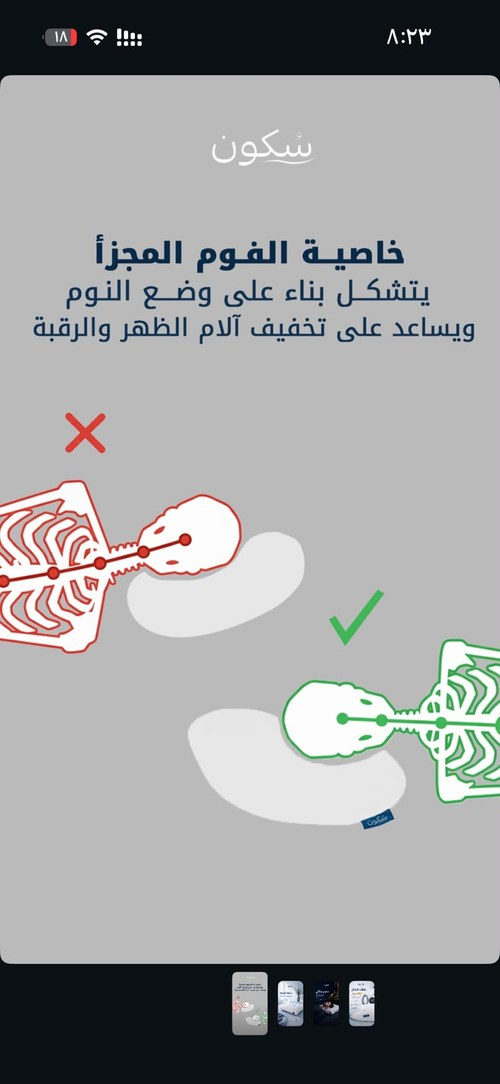
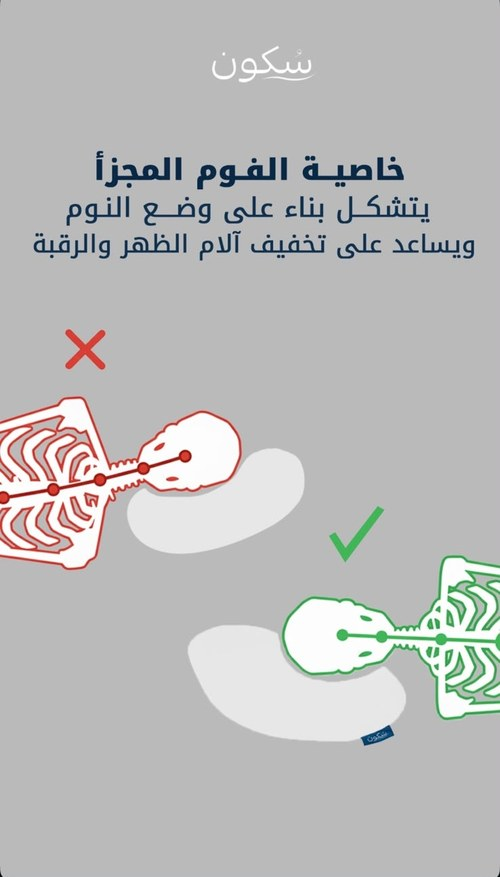
Replace posture image with client's updated photo + cache buster v9.3

diff --git a/index.html b/index.html
@@ -255,8 +255,8 @@
             <div class="posture-content">
                 <div class="posture-image-col">
                     <picture>
-                        <source srcset="assets/images/webp/posture-comparison.webp" type="image/webp">
-                        <img src="assets/images/posture-comparison.jpg?v=9.2" alt="مقارنة بين الوضعية الخاطئة والصحيحة للنوم على مخدة سُكون" class="posture-img" loading="lazy">
+                        <source srcset="assets/images/webp/posture-comparison.webp?v=9.3" type="image/webp">
+                        <img src="assets/images/posture-comparison.jpg?v=9.3" alt="مقارنة بين الوضعية الخاطئة والصحيحة للنوم على مخدة سُكون" class="posture-img" loading="lazy">
                     </picture>
                 </div>
                 <div class="posture-text-col">
